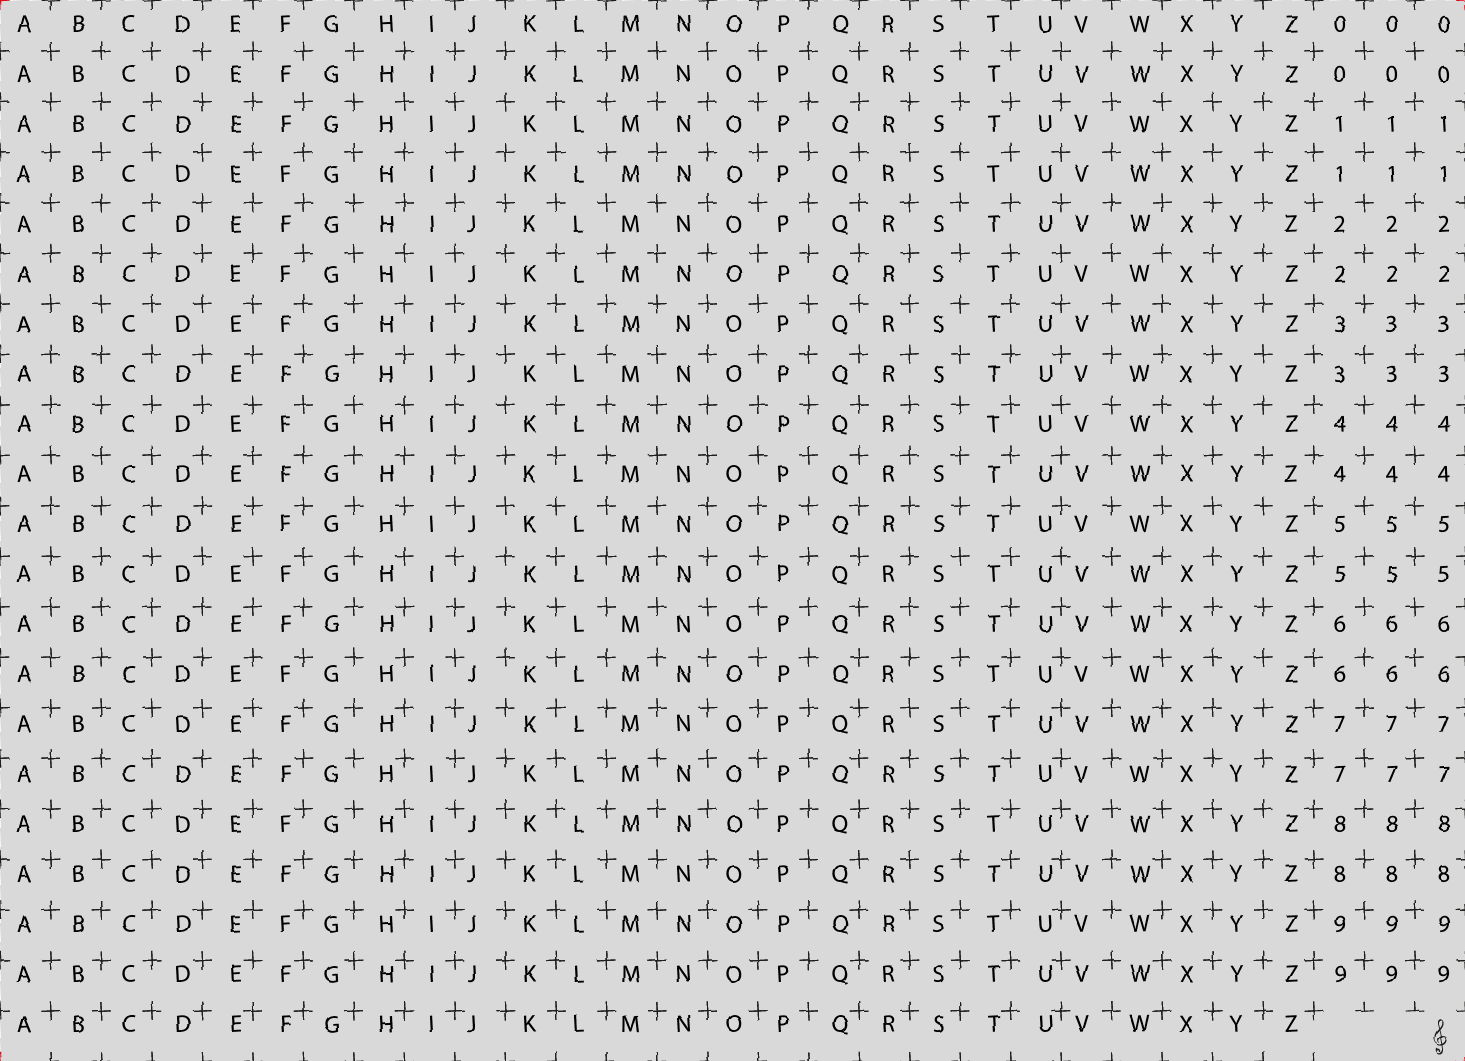
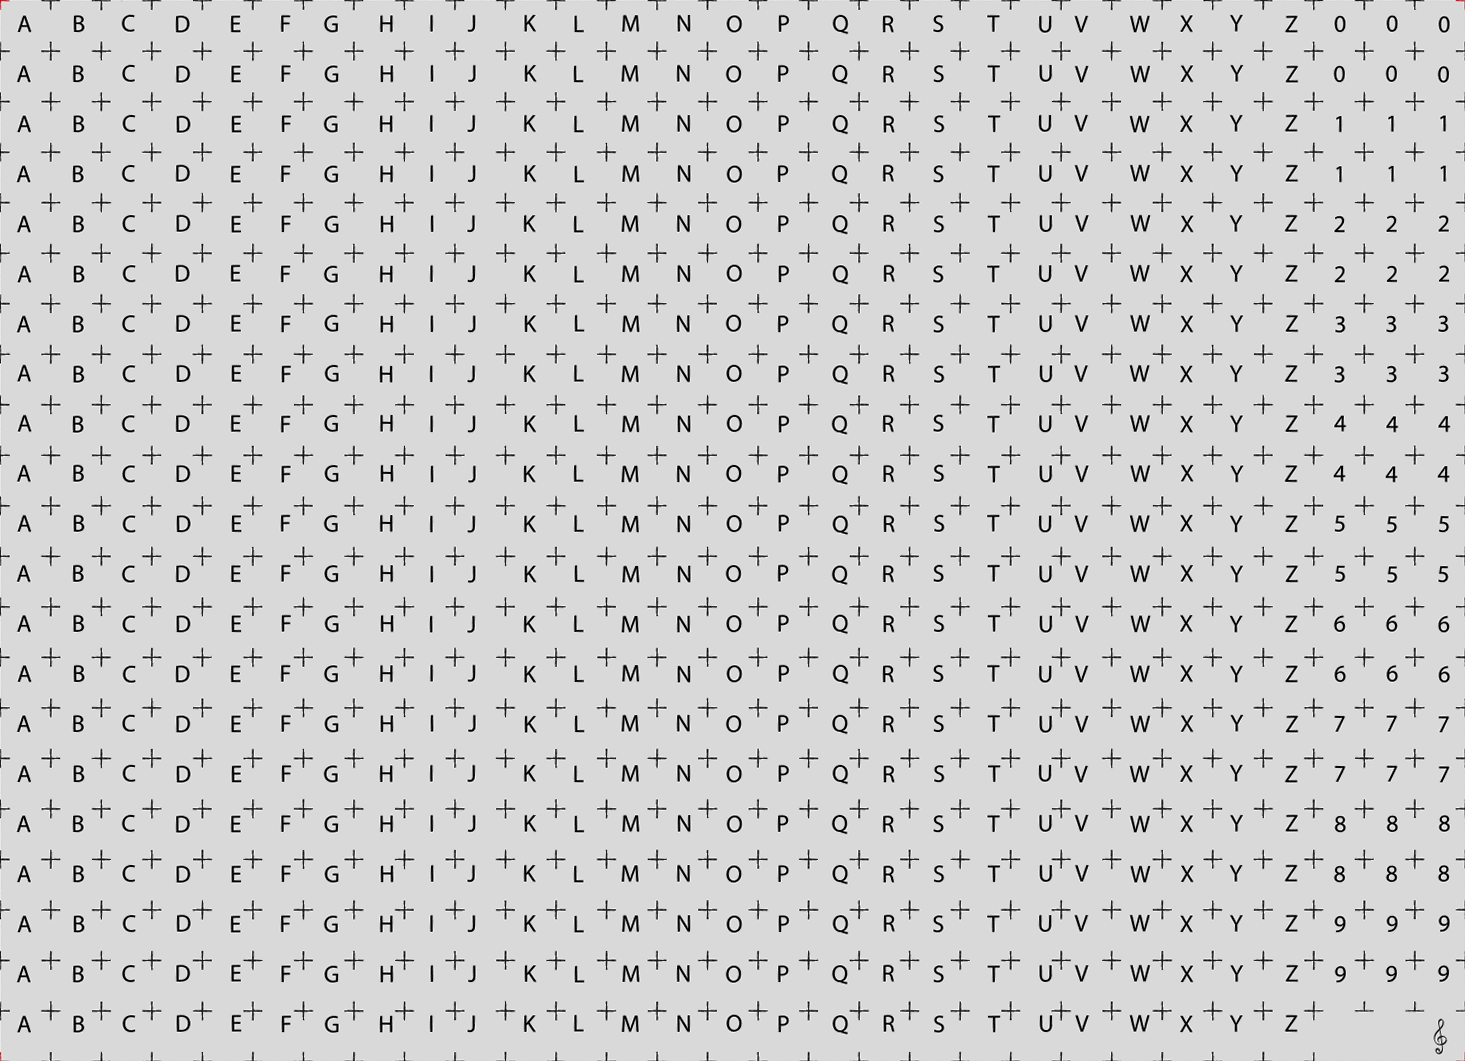
Correction de la fonction adjust_transform, ajout d'un resample et expand (résultat final plus smooth)

diff --git a/transformHandles.py b/transformHandles.py
@@ -82,7 +82,8 @@ def adjust_transform(img, top_mark, bottom_mark):
     angle = math.acos(adj / h)
     deg_angle = math.degrees(angle)
 
-    new_img = img.rotate(0 - deg_angle if deg_angle > 0 else deg_angle)
+    #new_img = img.rotate(0 - deg_angle if deg_angle > 0 else deg_angle)
+    new_img = img.rotate(0 - deg_angle if deg_angle > 0 else deg_angle, resample=Image.BICUBIC, expand=True)
 
     print(f"Adj : {adj}\nOpp : {opp}\nHyp : {h}\nAngle (radians) : {angle}\nAngle (degrés) : {deg_angle}")
 

diff --git a/main.py b/main.py
@@ -64,7 +64,7 @@ def main():
     img8_w.save("grid_samples/res3.png")
     new_img8_w = cropHandles.crop_by_color(img8_w, col, tolerance=40)
     new_img8_w.save("grid_samples/res4.png")
-    cropHandles.crop_n_save(new_img8_w, (49, 49), offset=(1,1), full_cell=False)
+    #cropHandles.crop_n_save(new_img8_w, (49, 49), offset=(1,1), full_cell=False)
 
 
 if __name__ == '__main__':
